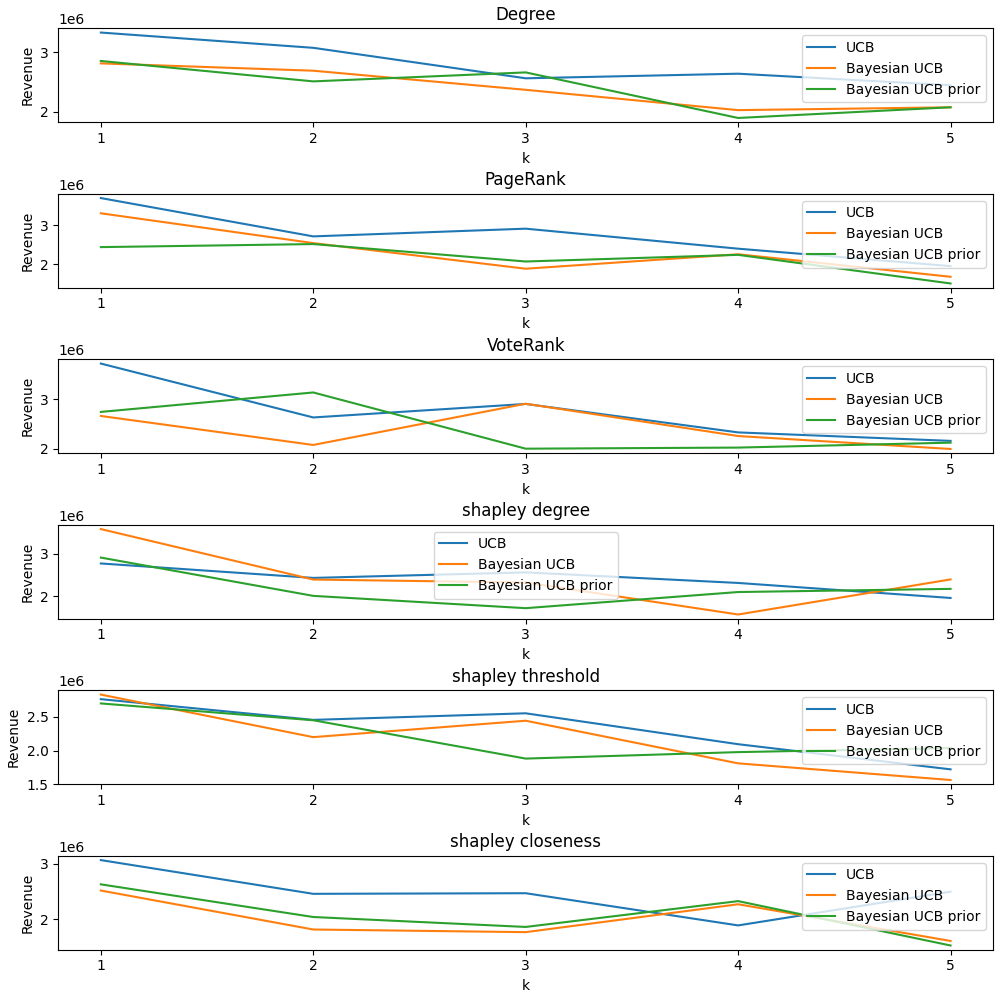
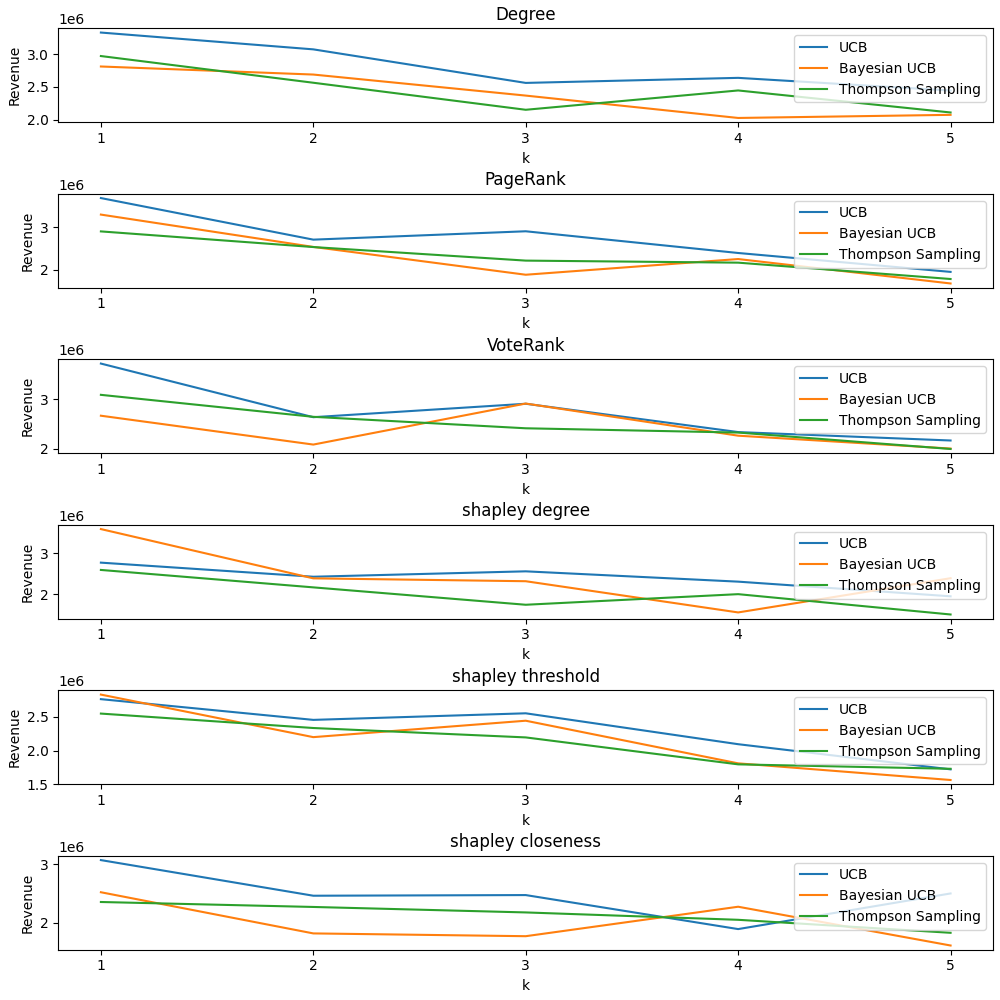
plot2

diff --git a/plot_results_armset.py b/plot_results_armset.py
@@ -3,7 +3,7 @@ from matplotlib import pyplot as plt
 import pandas as pd
 for t in ["20000","80000"]:
     path = "final_results_prior/"+t+"/"
-    df = pd.read_csv(path+"MUDAR_2.csv")
+    df = pd.read_csv(path+"MUDAR.csv")
 
     df_normal = df.loc[df['armset'] == "normal"].reset_index(drop=True)
     df_degree = df.loc[df['armset'] == "degree"].reset_index(drop=True)
@@ -23,55 +23,56 @@ for t in ["20000","80000"]:
 
     revenue_ucb_normal = []
     revenue_bayes_ucb_normal = []
-    revenue_bayes_ucb_prior_normal = []
+    revenue_thompson_sampling_normal = []
 
     revenue_ucb_page = []
     revenue_bayes_ucb_page = []
-    revenue_bayes_ucb_prior_page = []
+    revenue_thompson_sampling_page = []
 
     revenue_ucb_degree = []
     revenue_bayes_ucb_degree = []
-    revenue_bayes_ucb_prior_degree = []
+    revenue_thompson_sampling_degree = []
 
     revenue_ucb_vote = []
     revenue_bayes_ucb_vote = []
-    revenue_bayes_ucb_prior_vote = []
+    revenue_thompson_sampling_vote = []
 
     revenue_ucb_s_deg = []
     revenue_bayes_ucb_s_deg = []
-    revenue_bayes_ucb_prior_s_deg = []
+    revenue_thompson_sampling_s_deg = []
 
 
     revenue_ucb_s_thresh = []
     revenue_bayes_ucb_s_thresh = []
-    revenue_bayes_ucb_prior_s_thresh = []
+    revenue_thompson_sampling_s_thresh = []
 
     revenue_ucb_s_clos = []
     revenue_bayes_ucb_s_clos = []
-    revenue_bayes_ucb_prior_s_clos = []
+    revenue_thompson_sampling_s_clos = []
 
     for k in listk:
         df_normal_k = df_normal.loc[df_normal['k'] == k].reset_index(drop=True)
         revenue = df_normal_k['Revenue'].tolist()
         revenue_ucb_normal.append(revenue[0])
         revenue_bayes_ucb_normal.append(revenue[1])
+        revenue_thompson_sampling_normal.append(revenue[2])
 
         df_degree_k = df_degree.loc[df_degree['k'] == k].reset_index(drop=True)
         revenue = df_degree_k['Revenue'].tolist()
         revenue_ucb_degree.append(revenue[0])
         revenue_bayes_ucb_degree.append(revenue[1])
-        revenue_bayes_ucb_prior_degree.append(revenue[2])
+        revenue_thompson_sampling_degree.append(revenue[3])
 
         df_page_k = df_page.loc[df_page['k'] == k].reset_index(drop=True)
         revenue = df_page_k['Revenue'].tolist()
         revenue_ucb_page.append(revenue[0])
         revenue_bayes_ucb_page.append(revenue[1])
-        revenue_bayes_ucb_prior_page.append(revenue[2])
+        revenue_thompson_sampling_page.append(revenue[3])
 
         """df_vcg_k = df_vcg.loc[df_vcg['k'] == k].reset_index(drop=True)
         revenue = df_vcg_k['Revenue'].tolist()
         revenue_ucb_vcg.append(revenue[0])
-        revenue_bayes_ucb_vcg.append(revenue[2])
+        revenue_bayes_ucb_vcg.append(revenue[3])
         revenue_eps_vcg.append(revenue[3])
         revenue_thompson_vcg.append(revenue[4])"""
 
@@ -79,34 +80,34 @@ for t in ["20000","80000"]:
         revenue = df_vote_k['Revenue'].tolist()
         revenue_ucb_vote.append(revenue[0])
         revenue_bayes_ucb_vote.append(revenue[1])
-        revenue_bayes_ucb_prior_vote.append(revenue[2])
+        revenue_thompson_sampling_vote.append(revenue[3])
         
         df_s_deg_k = df_s_deg.loc[df_s_deg['k'] == k].reset_index(drop=True)
         print(df_s_deg_k)
         revenue = df_s_deg_k['Revenue'].tolist()
         revenue_ucb_s_deg.append(revenue[0])
         revenue_bayes_ucb_s_deg.append(revenue[1])
-        revenue_bayes_ucb_prior_s_deg.append(revenue[2])
+        revenue_thompson_sampling_s_deg.append(revenue[3])
 
 
         df_s_thresh_k = df_s_thresh.loc[df_s_thresh['k'] == k].reset_index(drop=True)
         revenue = df_s_thresh_k['Revenue'].tolist()
         revenue_ucb_s_thresh.append(revenue[0])
         revenue_bayes_ucb_s_thresh.append(revenue[1])
-        revenue_bayes_ucb_prior_s_thresh.append(revenue[2])
+        revenue_thompson_sampling_s_thresh.append(revenue[3])
 
         df_s_clos_k = df_s_clos.loc[df_s_clos['k'] == k].reset_index(drop=True)
         revenue = df_s_clos_k['Revenue'].tolist()
         revenue_ucb_s_clos.append(revenue[0])
         revenue_bayes_ucb_s_clos.append(revenue[1])
-        revenue_bayes_ucb_prior_s_clos.append(revenue[2])
+        revenue_thompson_sampling_s_clos.append(revenue[3])
 
 
     fig, axs = plt.subplots(6, figsize=(10,10))
 
     axs[0].plot(listk, revenue_ucb_degree, label = 'UCB')
     axs[0].plot(listk, revenue_bayes_ucb_degree, label = 'Bayesian UCB')
-    axs[0].plot(listk, revenue_bayes_ucb_prior_degree, label = 'Bayesian UCB prior')
+    axs[0].plot(listk, revenue_thompson_sampling_degree, label = 'Thompson Sampling')
     axs[0].set_xlabel('k')
     axs[0].set_xticks(listk, listk)
     axs[0].set_ylabel('Revenue')
@@ -115,7 +116,7 @@ for t in ["20000","80000"]:
 
     axs[1].plot(listk, revenue_ucb_page, label = 'UCB')
     axs[1].plot(listk, revenue_bayes_ucb_page, label = 'Bayesian UCB')
-    axs[1].plot(listk, revenue_bayes_ucb_prior_page, label = 'Bayesian UCB prior')
+    axs[1].plot(listk, revenue_thompson_sampling_page, label = 'Thompson Sampling')
     axs[1].set_xlabel('k')
     axs[1].set_xticks(listk, listk)
     axs[1].set_ylabel('Revenue')
@@ -125,7 +126,7 @@ for t in ["20000","80000"]:
 
     axs[2].plot(listk, revenue_ucb_vote, label = 'UCB')
     axs[2].plot(listk, revenue_bayes_ucb_vote, label = 'Bayesian UCB')
-    axs[2].plot(listk, revenue_bayes_ucb_prior_vote, label = 'Bayesian UCB prior')
+    axs[2].plot(listk, revenue_thompson_sampling_vote, label = 'Thompson Sampling')
     axs[2].set_xlabel('k')
     axs[2].set_xticks(listk, listk)
     axs[2].set_ylabel('Revenue')
@@ -134,7 +135,7 @@ for t in ["20000","80000"]:
 
     axs[3].plot(listk, revenue_ucb_s_deg, label = 'UCB')
     axs[3].plot(listk, revenue_bayes_ucb_s_deg, label = 'Bayesian UCB')
-    axs[3].plot(listk, revenue_bayes_ucb_prior_s_deg, label = 'Bayesian UCB prior')
+    axs[3].plot(listk, revenue_thompson_sampling_s_deg, label = 'Thompson Sampling')
     axs[3].set_xlabel('k')
     axs[3].set_xticks(listk, listk)
     axs[3].set_ylabel('Revenue')
@@ -143,7 +144,7 @@ for t in ["20000","80000"]:
 
     axs[4].plot(listk, revenue_ucb_s_thresh, label = 'UCB')
     axs[4].plot(listk, revenue_bayes_ucb_s_thresh, label = 'Bayesian UCB')
-    axs[4].plot(listk, revenue_bayes_ucb_prior_s_thresh, label = 'Bayesian UCB prior')
+    axs[4].plot(listk, revenue_thompson_sampling_s_thresh, label = 'Thompson Sampling')
     axs[4].set_xlabel('k')
     axs[4].set_xticks(listk, listk)
     axs[4].set_ylabel('Revenue')
@@ -152,7 +153,7 @@ for t in ["20000","80000"]:
 
     axs[5].plot(listk, revenue_ucb_s_clos, label = 'UCB')
     axs[5].plot(listk, revenue_bayes_ucb_s_clos, label = 'Bayesian UCB')
-    axs[5].plot(listk, revenue_bayes_ucb_prior_s_clos, label = 'Bayesian UCB prior')
+    axs[5].plot(listk, revenue_thompson_sampling_s_clos, label = 'Thompson Sampling')
     axs[5].set_xlabel('k')
     axs[5].set_xticks(listk, listk)
     axs[5].set_ylabel('Revenue')
@@ -160,7 +161,7 @@ for t in ["20000","80000"]:
     axs[5].legend()
 
     fig.tight_layout(pad=0.5)
-    plt.savefig(path+'armset_chart_2.png')
+    plt.savefig(path+'armset_chart.png')
     #plt.show()
 
     fig, axs = plt.subplots(3, figsize=(10,6))
@@ -192,20 +193,21 @@ for t in ["20000","80000"]:
     axs[1].set_title("Bayesian UCB")
     axs[1].legend()
 
-    axs[2].plot(listk, revenue_bayes_ucb_prior_degree, label = 'Degree')
-    axs[2].plot(listk, revenue_bayes_ucb_prior_page, label = 'PageRank')
-    axs[2].plot(listk, revenue_bayes_ucb_prior_vote, label = 'VoteRank')
-    axs[2].plot(listk, revenue_bayes_ucb_prior_s_deg, label = 's. degree')
-    axs[2].plot(listk, revenue_bayes_ucb_prior_s_thresh, label = 's. threshold')
-    axs[2].plot(listk, revenue_bayes_ucb_prior_s_clos, label = 's. closeness')
+    axs[2].plot(listk, revenue_thompson_sampling_degree, label = 'Degree')
+    axs[2].plot(listk, revenue_thompson_sampling_page, label = 'PageRank')
+    axs[2].plot(listk, revenue_thompson_sampling_vote, label = 'VoteRank')
+    axs[2].plot(listk, revenue_thompson_sampling_normal, label = 'Normal')
+    axs[2].plot(listk, revenue_thompson_sampling_s_deg, label = 's. degree')
+    axs[2].plot(listk, revenue_thompson_sampling_s_thresh, label = 's. threshold')
+    axs[2].plot(listk, revenue_thompson_sampling_s_clos, label = 's. closeness')
     axs[2].set_xlabel('k')
     axs[2].set_xticks(listk, listk)
     axs[2].set_ylabel('Revenue')
-    axs[2].set_title("Bayesian UCB prior")
+    axs[2].set_title("Thompson Sampling")
     axs[2].legend()
 
     fig.tight_layout(pad=0.5)
-    plt.savefig(path+'bandit_charts_2.png')
+    plt.savefig(path+'bandit_charts.png')
 
     print(listk)
     #plt.show()

diff --git a/final_test_armset_UCB_2.py b/final_test_armset_UCB_2.py
@@ -130,7 +130,7 @@ args = parser.parse_args()
 
 
 
-G, k, T, val, p, arms_set, auctions = input_data(T=args.T)
+G, k, T, val, p, arms_set, auctions = input_data(T=args.T,path_net="data/GenWS2DG_2.txt")
 
 ####################################################################
 
@@ -280,7 +280,7 @@ for auction in list_auction:
         
             if not os.path.exists(path):
                 os.makedirs(path)
-            df1.to_csv(path+"/"+auction+"_1.csv", index=False)
+            df1.to_csv(path+"/"+auction+"_2.csv", index=False)
 
 
 print("\n\n\n\n\n\n\n\n\nEND\n\n\n\n\n\n\n\n\n")

diff --git a/compute_results_armset.py b/compute_results_armset.py
@@ -1,7 +1,7 @@
 import os
 import pandas as pd
 
-for t in ["20000","40000","60000"]:
+for t in ["20000","40000","60000","80000"]:
 
     #df_mudan = pd.read_csv("final_results_prior2/20000/MUDAN.csv")
     df_mudar = pd.read_csv("final_results_UCB/"+t+"/MUDAR.csv")
